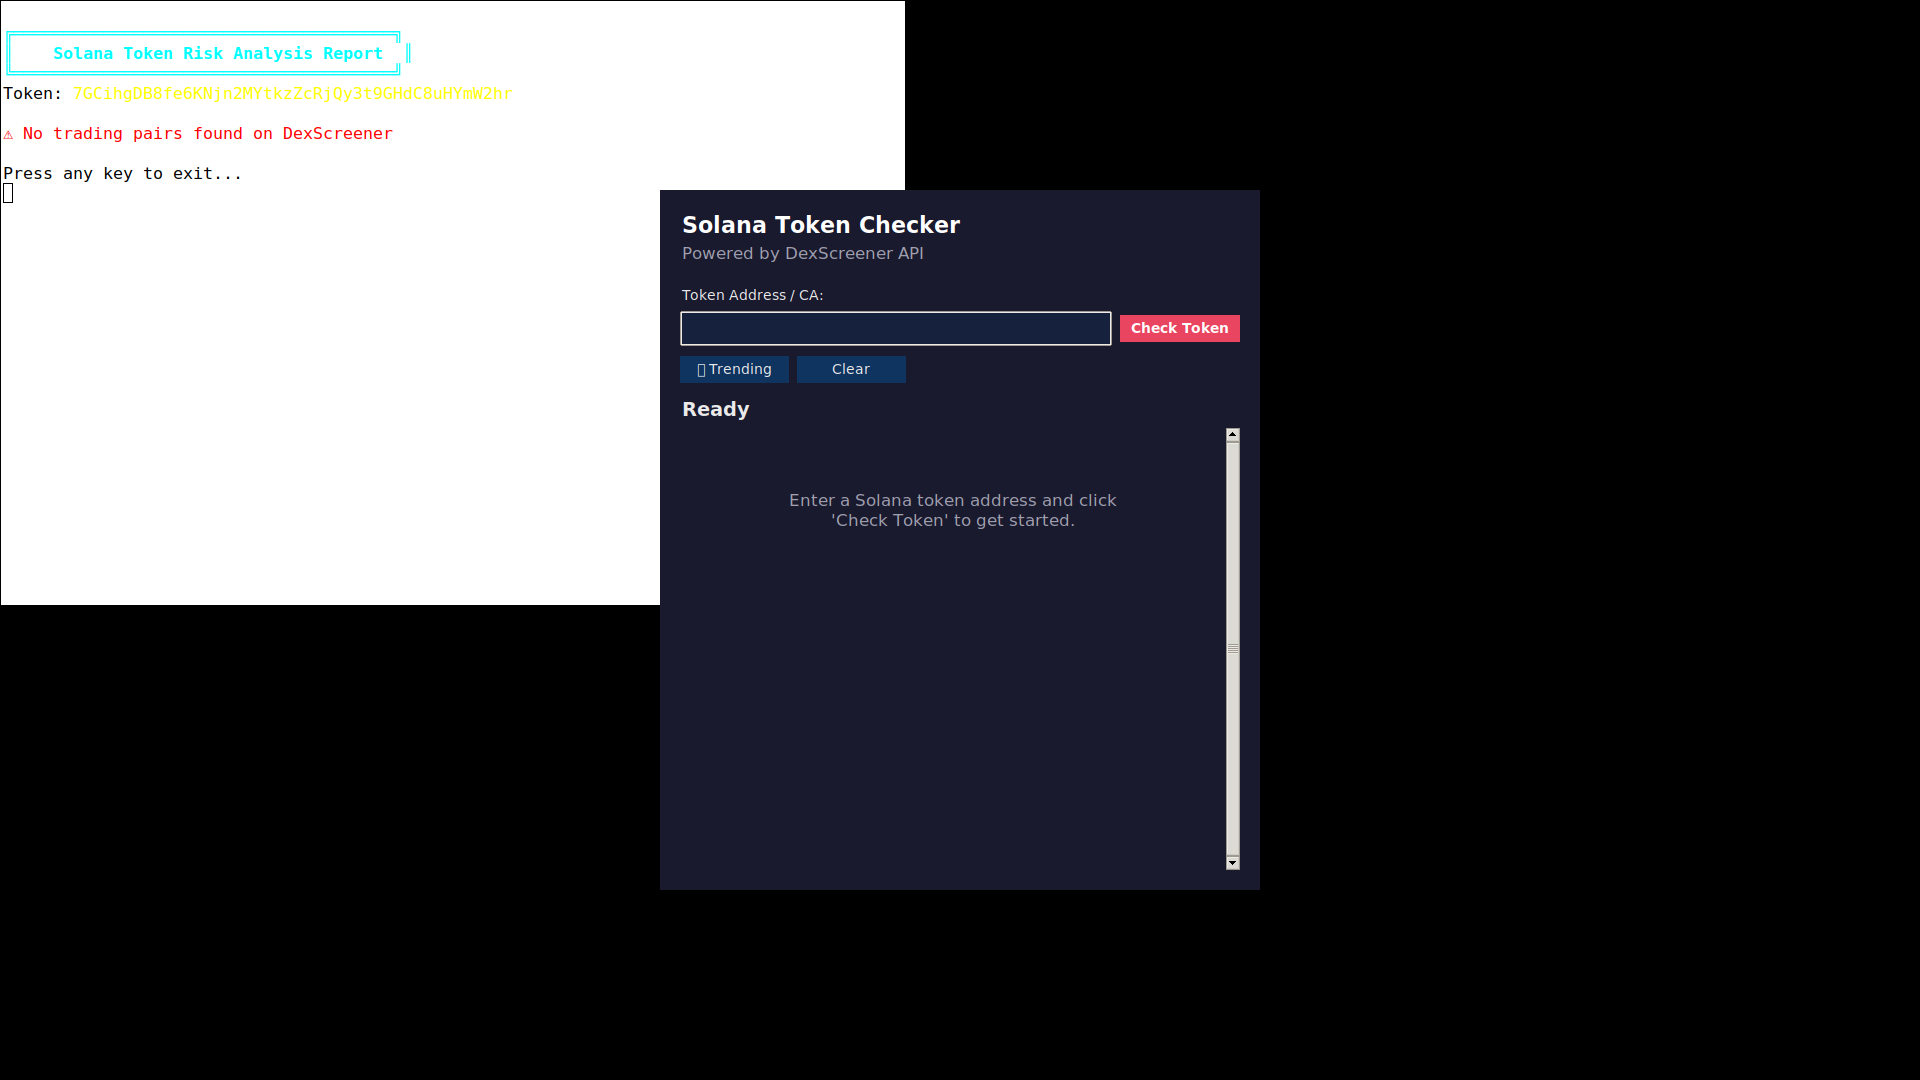
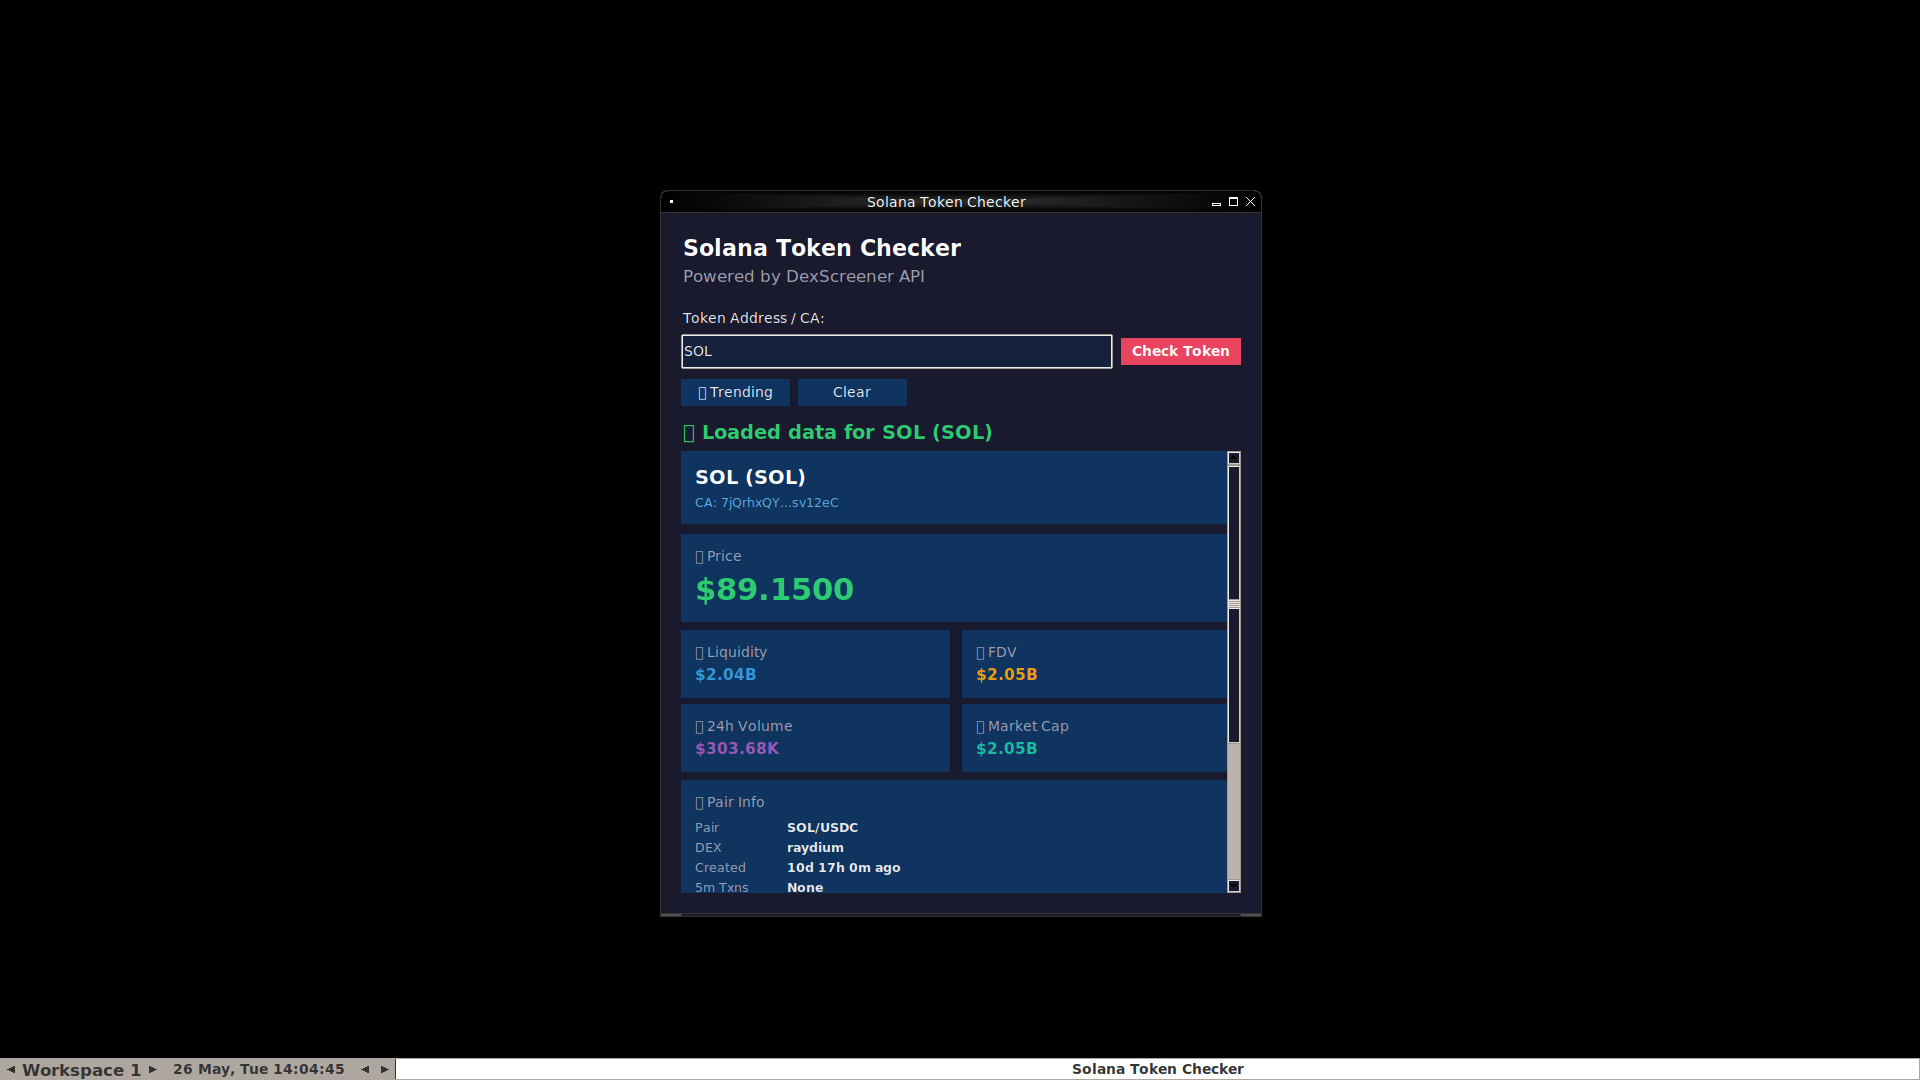
Fix API endpoint (DexScreener changed), new screenshot, updated README

diff --git a/app.py b/app.py
@@ -16,7 +16,7 @@ import webbrowser
 from datetime import datetime
 
 # ── Configuration ──────────────────────────────────────────────────────────────
-DEXSCREENER_API = "https://api.dexscreener.com/latest/dex/token/{}"
+DEXSCREENER_API = "https://api.dexscreener.com/latest/dex/search?q={}"
 DARK_BG = "#1a1a2e"
 DARK_SECONDARY = "#16213e"
 DARK_CARD = "#0f3460"

diff --git a/README.md b/README.md
@@ -1,40 +1,48 @@
-# Solana Token Checker GUI
+<h1 align="center">🪙 Solana Token Checker GUI</h1>
+<p align="center">
+  <b>Desktop GUI for analyzing Solana tokens — built with Python Tkinter</b>
+</p>
 
-A desktop GUI application for checking Solana token data via the DexScreener API.
+<p align="center">
+  <img src="screenshot.png" alt="Solana Token Checker GUI Screenshot" width="500">
+</p>
 
-Built with **pure Python + tkinter/ttk** — no external dependencies required.
+<p align="center">
+  <img src="https://img.shields.io/badge/python-3.6+-blue.svg">
+  <img src="https://img.shields.io/badge/dependencies-tkinter-yellow.svg">
+  <img src="https://img.shields.io/badge/license-MIT-green.svg">
+</p>
 
-![Screenshot](screenshot.png)
+---
 
 ## Features
 
-- 🔍 **Check Token** — Enter any Solana token address and get detailed information
-- 🔥 **Trending** — View top Solana tokens sorted by 24h volume
-- 🛡️ **Risk Assessment** — Color-coded risk scores (green/yellow/orange/red)
-- 💰 **Token Details** — Price, liquidity, 24h volume, FDV, market cap
-- 📊 **Transaction Data** — 5m, 1h, 24h buy/sell counts
-- 🌙 **Dark Theme** — Clean, modern dark UI
-- 🖱️ **Clickable Rows** — Click any trending token to instantly check it
+- 🔍 **Check any Solana token** — enter an address or symbol
+- 📊 **Real-time data** — price, liquidity, volume, FDV from DexScreener
+- 🎯 **Risk scoring** — color-coded risk analysis (low → critical)
+- 🔥 **Trending tokens** — see what's hot right now
+- 🎨 **Dark theme** — modern UI with ttk
+- ⌨️ **Keyboard shortcuts** — Enter to check, Ctrl+C to clear
 
-## Requirements
-
-- Python 3.12+
-- Python Tkinter (`python3-tk` on Debian/Ubuntu)
-
-## Quick Start
+## Install
 
 ```bash
-# Install python3-tk (if needed)
-sudo apt install python3-tk
-
-# Run
+# Requires Python 3 and tkinter
+git clone https://github.com/neuralmint/solana-token-check-gui
+cd solana-token-check-gui
 python3 app.py
 ```
 
-## API
+## Usage
 
-Uses [DexScreener API](https://docs.dexscreener.com/api/reference) for on-chain token data.
+1. Enter a Solana token address or symbol
+2. Click **Check Token** (or press Enter)
+3. View the risk analysis results
+4. Click **Trending** to see top tokens
 
-## License
+**Note:** Requires a display server (X11 on Linux, or Xvfb for headless).
 
-MIT
+---
+
+<p align="center"><i>Built by neuralmint · Not financial advice · DYOR</i></p>
+<p align="center"><b>Donations:</b> <code>bc1q6ud0w3036ye2vfzkftwywarqswqu3jehs4nqe7</code> (BTC)</p>